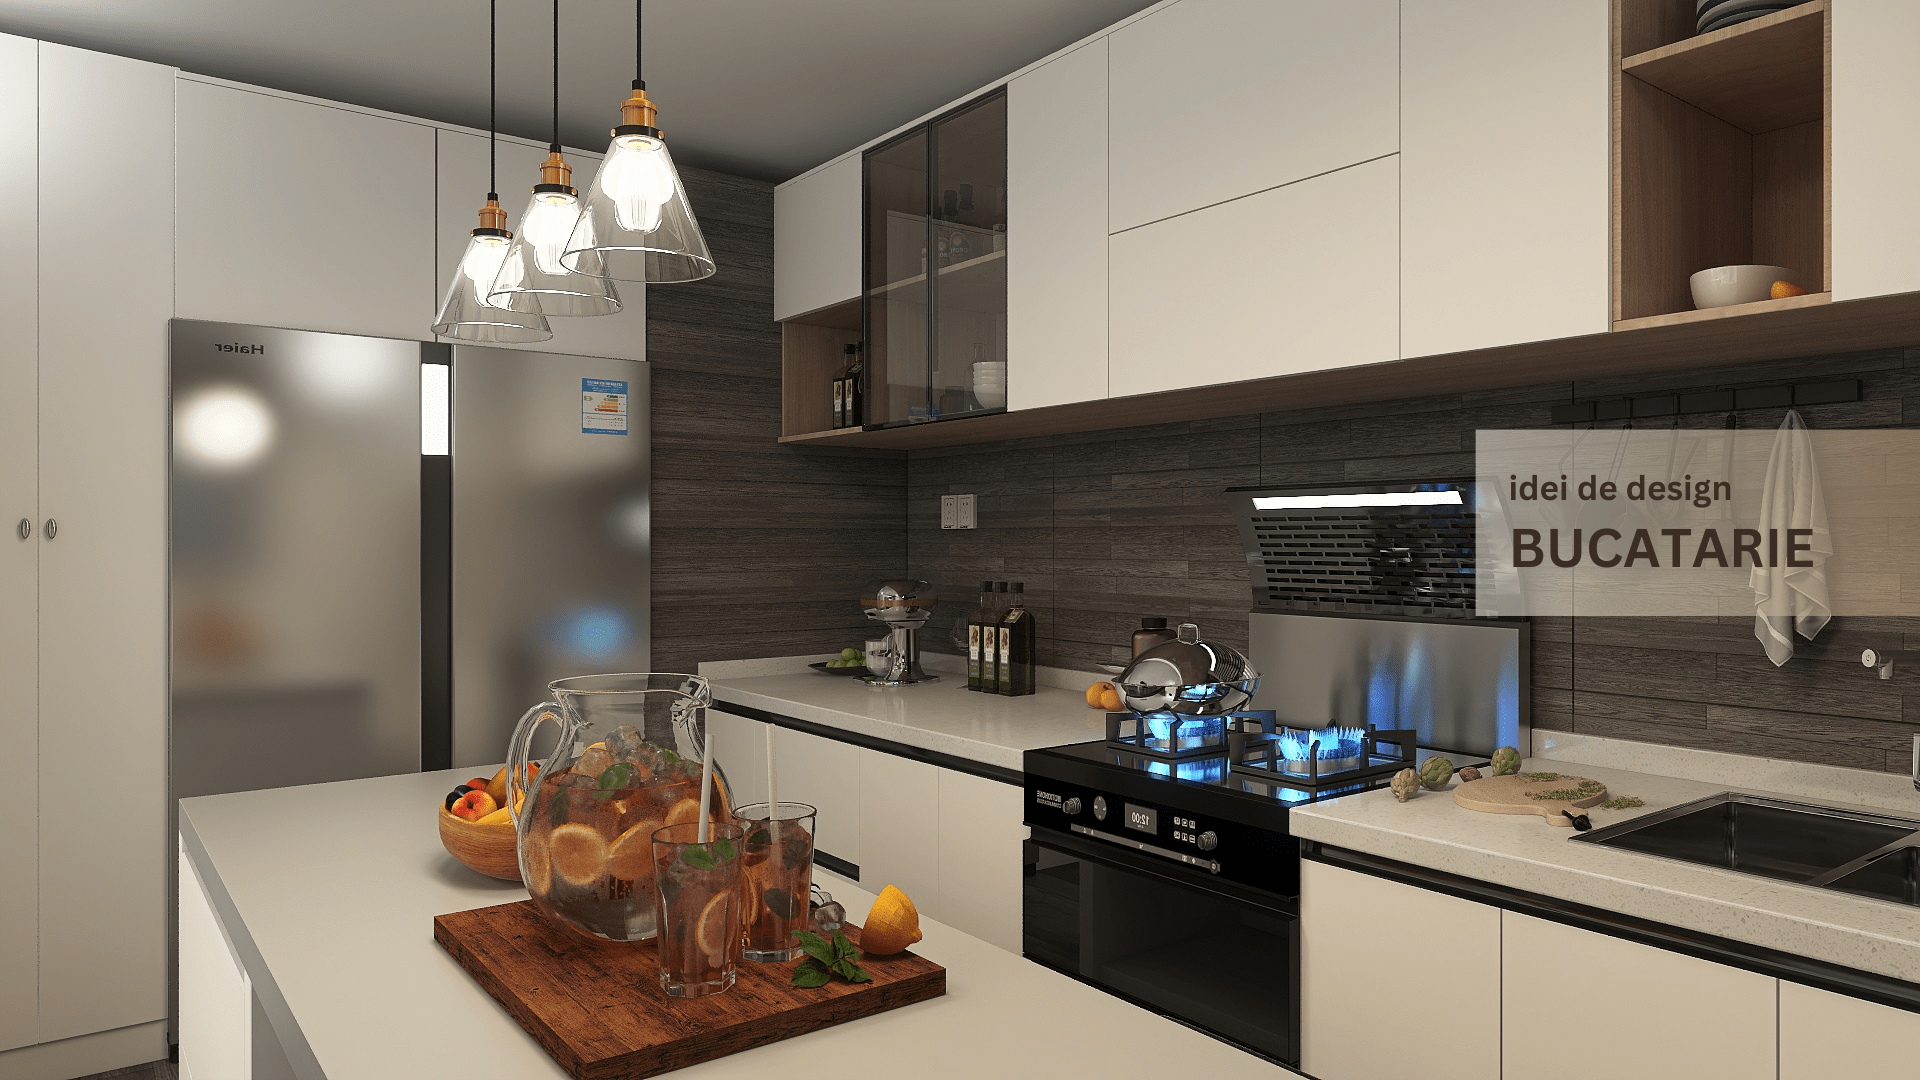
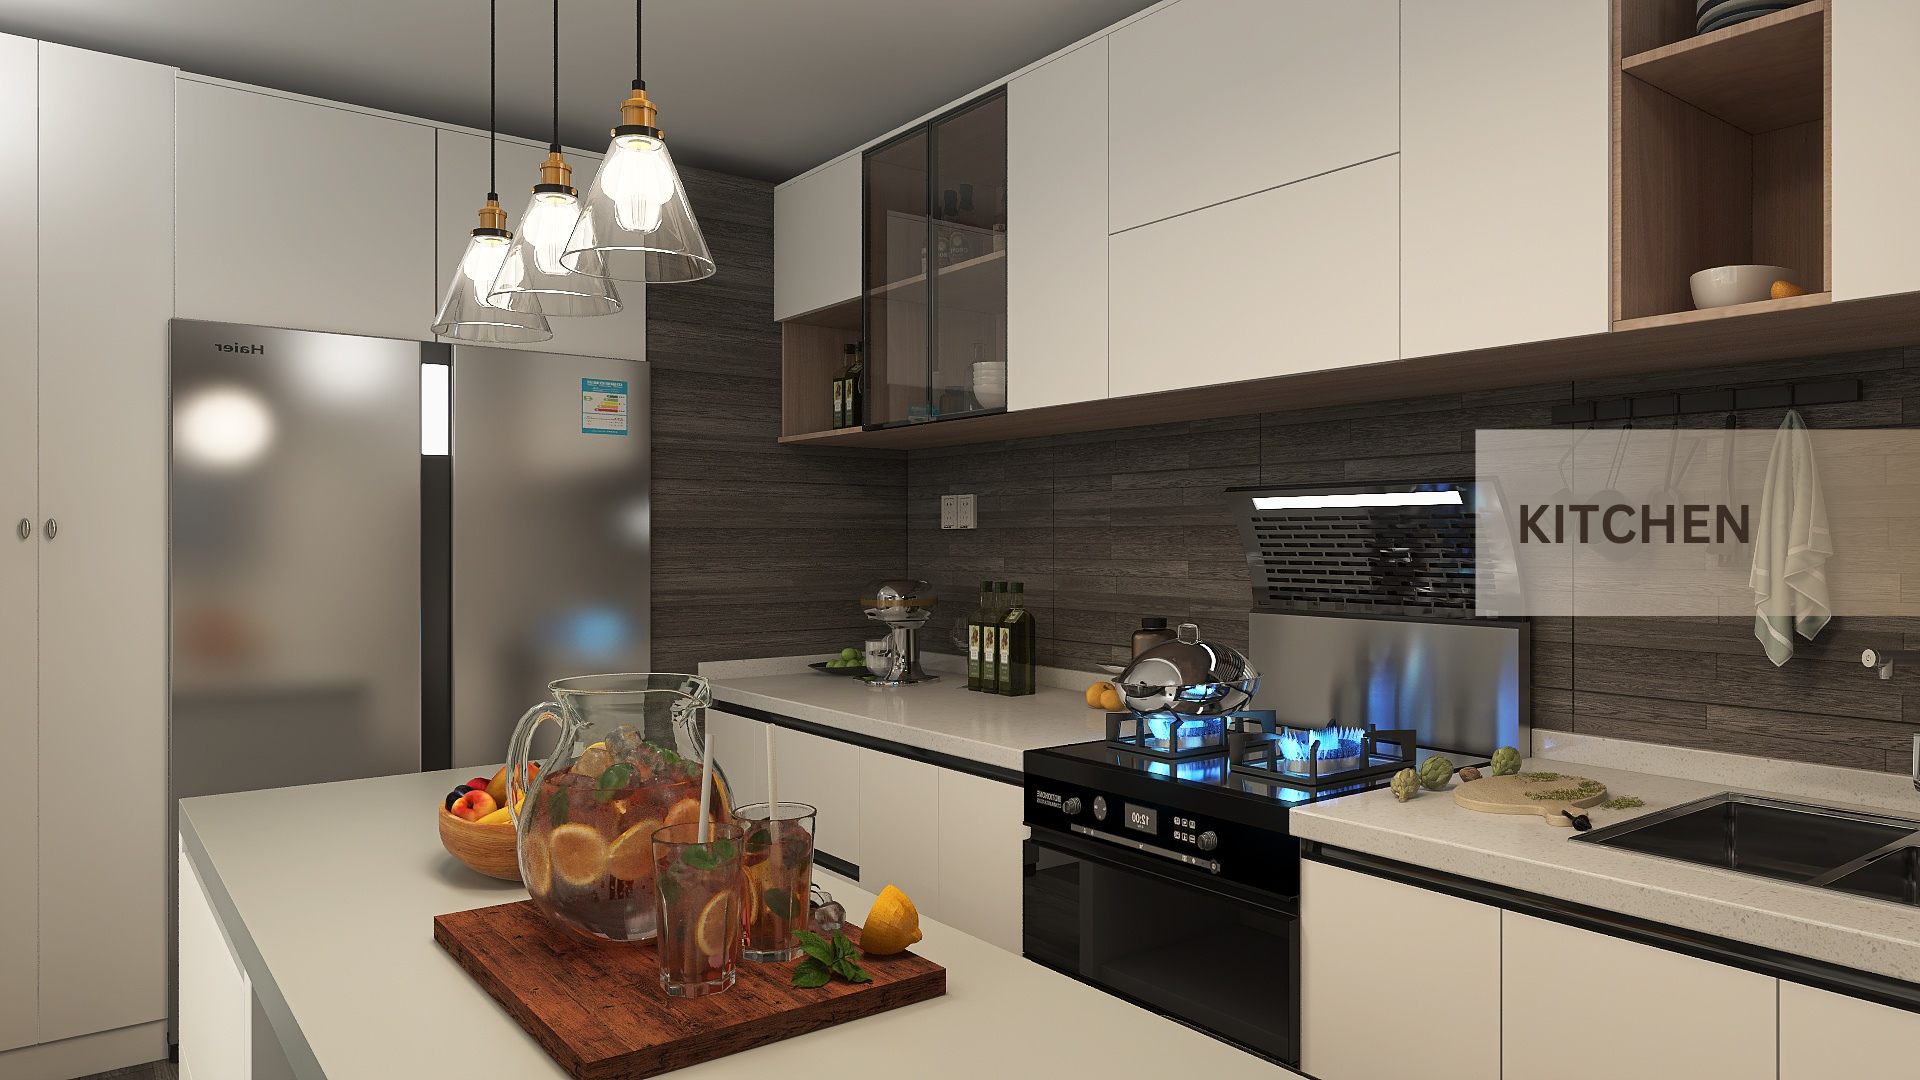
added new images and changed titles from ro to en

Changed region(s): [[0.7812, 0.4278, 0.9375, 0.55]]

diff --git a/src/app/app-routing.module.ts b/src/app/app-routing.module.ts
@@ -54,156 +54,156 @@ const routes: Routes = [
 			{
 				path: 'dormitor',
 				component: DormitorComponent,
-				title: 'Idei de design dormitor',
+				title: 'Bedroom',
 				children: [
 					{
 						path: 'dormitor-one',
 						component: DormitorOneComponent,
-						title: 'Dormitor 1',
+						title: 'Bedroom 1',
 					},
 					{
 						path: 'dormitor-two',
 						component: DormitorTwoComponent,
-						title: 'Dormitor 2',
+						title: 'Bedroom 2',
 					},
 					{
 						path: 'dormitor-three',
 						component: DormitorThreeComponent,
-						title: 'Dormitor 3',
+						title: 'Bedroom 3',
 					},
 					{
 						path: 'dormitor-four',
 						component: DormitorFourComponent,
-						title: 'Dormitor 4',
+						title: 'Bedroom 4',
 					},
 				],
 			},
 			{
 				path: 'baie',
 				component: BaieComponent,
-				title: 'Idei de design baie',
+				title: 'Bathroom',
 				children: [
 					{
 						path: 'baie-one',
 						component: BaieOneComponent,
-						title: 'Baie 1',
+						title: 'Bathroom 1',
 					},
 					{
 						path: 'baie-two',
 						component: BaieTwoComponent,
-						title: 'Baie 2',
+						title: 'Bathroom 2',
 					},
 					{
 						path: 'baie-three',
 						component: BaieThreeComponent,
-						title: 'Baie 3',
+						title: 'Bathroom 3',
 					},
 					{
 						path: 'baie-four',
 						component: BaieFourComponent,
-						title: 'Baie 4',
+						title: 'Bathroom 4',
 					},
 				],
 			},
 			{
 				path: 'birou',
 				component: BirouComponent,
-				title: 'Idei de design birou',
+				title: 'Office',
 				children: [
 					{
 						path: 'birou-one',
 						component: BirouOneComponent,
-						title: 'Birou 1',
+						title: 'Office 1',
 					},
 					{
 						path: 'birou-two',
 						component: BirouTwoComponent,
-						title: 'Birou 2',
+						title: 'Office 2',
 					},
 					{
 						path: 'birou-three',
 						component: BirouThreeComponent,
-						title: 'Birou 3',
+						title: 'Office 3',
 					},
 				],
 			},
 			{
 				path: 'bucatarie',
 				component: BucatarieComponent,
-				title: 'Idei de design bucatarie',
+				title: 'Kitchen',
 				children: [
 					{
 						path: 'bucatarie-one',
 						component: BucatarieOneComponent,
-						title: 'Bucatarie 1',
+						title: 'Kitchen 1',
 					},
 					{
 						path: 'bucatarie-two',
 						component: BucatarieTwoComponent,
-						title: 'Bucatarie 2',
+						title: 'Kitchen 2',
 					},
-					{ path: 'bucatarie-three', component: BucatarieThreeComponent, title: 'Bucatarie 3' },
-					{ path: 'bucatarie-four', component: BucatarieFourComponent, title: 'Bucatarie 4' },
+					{ path: 'bucatarie-three', component: BucatarieThreeComponent, title: 'Kitchen 3' },
+					{ path: 'bucatarie-four', component: BucatarieFourComponent, title: 'Kitchen 4' },
 				],
 			},
 			{
 				path: 'dinning-room',
 				component: DinningRoomComponent,
-				title: 'Idei de design dinning area',
+				title: 'Dinning Area',
 				children: [
 					{
 						path: 'dinning-room-one',
 						component: DinningRoomOneComponent,
-						title: 'Dinning room 1',
+						title: 'Dinning Area 1',
 					},
 					{
 						path: 'dinning-room-two',
 						component: DinningRoomTwoComponent,
-						title: 'Dinning room 2',
+						title: 'Dinning Area 2',
 					},
 					{
 						path: 'dinning-room-three',
 						component: DinningRoomThreeComponent,
-						title: 'Dinning room 3',
+						title: 'Dinning Area 3',
 					},
 				],
 			},
 			{
 				path: 'living',
 				component: LivingComponent,
-				title: 'Idei de design living',
+				title: 'Living room',
 				children: [
 					{
 						path: 'living-one',
 						component: LivingOneComponent,
-						title: 'Living 1',
+						title: 'Living room 1',
 					},
 					{
 						path: 'living-two',
 						component: LivingTwoComponent,
-						title: 'Living 2',
+						title: 'Living room 2',
 					},
 					{
 						path: 'living-three',
 						component: LivingThreeComponent,
-						title: 'Living 3',
+						title: 'Living room 3',
 					},
 					{
 						path: 'living-four',
 						component: LivingFourComponent,
-						title: 'Living 4',
+						title: 'Living room 4',
 					},
 				],
 			},
 			{
 				path: 'terasa',
 				component: TerasaComponent,
-				title: 'Idei de design terasa',
+				title: 'Terrace',
 				children: [
 					{
 						path: 'terasa-one',
 						component: TerasaOneComponent,
-						title: 'Terasa 1',
+						title: 'Terrace 1',
 					},
 				],
 			},

diff --git a/src/app/portofolio/portofolio.component.ts b/src/app/portofolio/portofolio.component.ts
@@ -33,12 +33,12 @@ export class PortofolioComponent implements OnInit {
 			category: 'bucatarie',
 		},
 		{
-			title: 'Dinning room',
+			title: 'Dinning Area',
 			url: '../../../../assets/DinningRoom/DinningAreaPortofoliu.png',
 			category: 'dinning-room',
 		},
 		{
-			title: 'Livingroom',
+			title: 'Living room',
 			url: '../../../../assets/Living/LivingPortofoliu.png',
 			category: 'living',
 		},

diff --git a/src/app/portofolio/dinning-room/dinning-room.component.html b/src/app/portofolio/dinning-room/dinning-room.component.html
@@ -3,7 +3,7 @@
 		<div class="row" *ngIf="!showContent">
 			<div class="row">
 				<div class="col-12">
-					<h2>Idei de design pentru dinning area</h2>
+					<h2>Dinning Area</h2>
 				</div>
 			</div>
 			<div class="col-6">

diff --git a/src/app/portofolio/bucatarie/bucatarie.component.html b/src/app/portofolio/bucatarie/bucatarie.component.html
@@ -3,7 +3,7 @@
 		<div class="row" *ngIf="!showContent">
 			<div class="row">
 				<div class="col-12">
-					<h2>Idei de design pentru bucatarie</h2>
+					<h2>Kitchen</h2>
 				</div>
 			</div>
 			<div class="col-6">

diff --git a/src/app/portofolio/living/living.component.html b/src/app/portofolio/living/living.component.html
@@ -3,7 +3,7 @@
 		<div class="row" *ngIf="!showContent">
 			<div class="row">
 				<div class="col-12">
-					<h2>Idei de design pentru living</h2>
+					<h2>Living room</h2>
 				</div>
 			</div>
 			<div class="row">

diff --git a/src/app/portofolio/dormitor/dormitor.component.html b/src/app/portofolio/dormitor/dormitor.component.html
@@ -3,7 +3,7 @@
 		<div class="row" *ngIf="!showContent">
 			<div class="row">
 				<div class="col-12">
-					<h2>Idei de design pentru dormitor</h2>
+					<h2>Bedroom</h2>
 				</div>
 			</div>
 			<div class="row">

diff --git a/src/app/portofolio/terasa/terasa.component.html b/src/app/portofolio/terasa/terasa.component.html
@@ -3,7 +3,7 @@
 		<div class="row" *ngIf="!showContent">
 			<div class="row">
 				<div class="col-12">
-					<h2>Idei de design pentru terasa</h2>
+					<h2>Terrace</h2>
 				</div>
 			</div>
 			<div class="col-6">

diff --git a/src/app/portofolio/baie/baie.component.html b/src/app/portofolio/baie/baie.component.html
@@ -3,7 +3,7 @@
 		<div class="row" *ngIf="!showContent">
 			<div class="row">
 				<div class="col-12">
-					<h2>Idei de design pentru baie</h2>
+					<h2>Bathroom</h2>
 				</div>
 			</div>
 			<div class="col-6">

diff --git a/src/app/portofolio/birou/birou.component.html b/src/app/portofolio/birou/birou.component.html
@@ -3,7 +3,7 @@
 		<div class="row" *ngIf="!showContent">
 			<div class="row">
 				<div class="col-12">
-					<h2>Idei de design pentru birou</h2>
+					<h2>Office</h2>
 				</div>
 			</div>
 			<div class="col-6">
